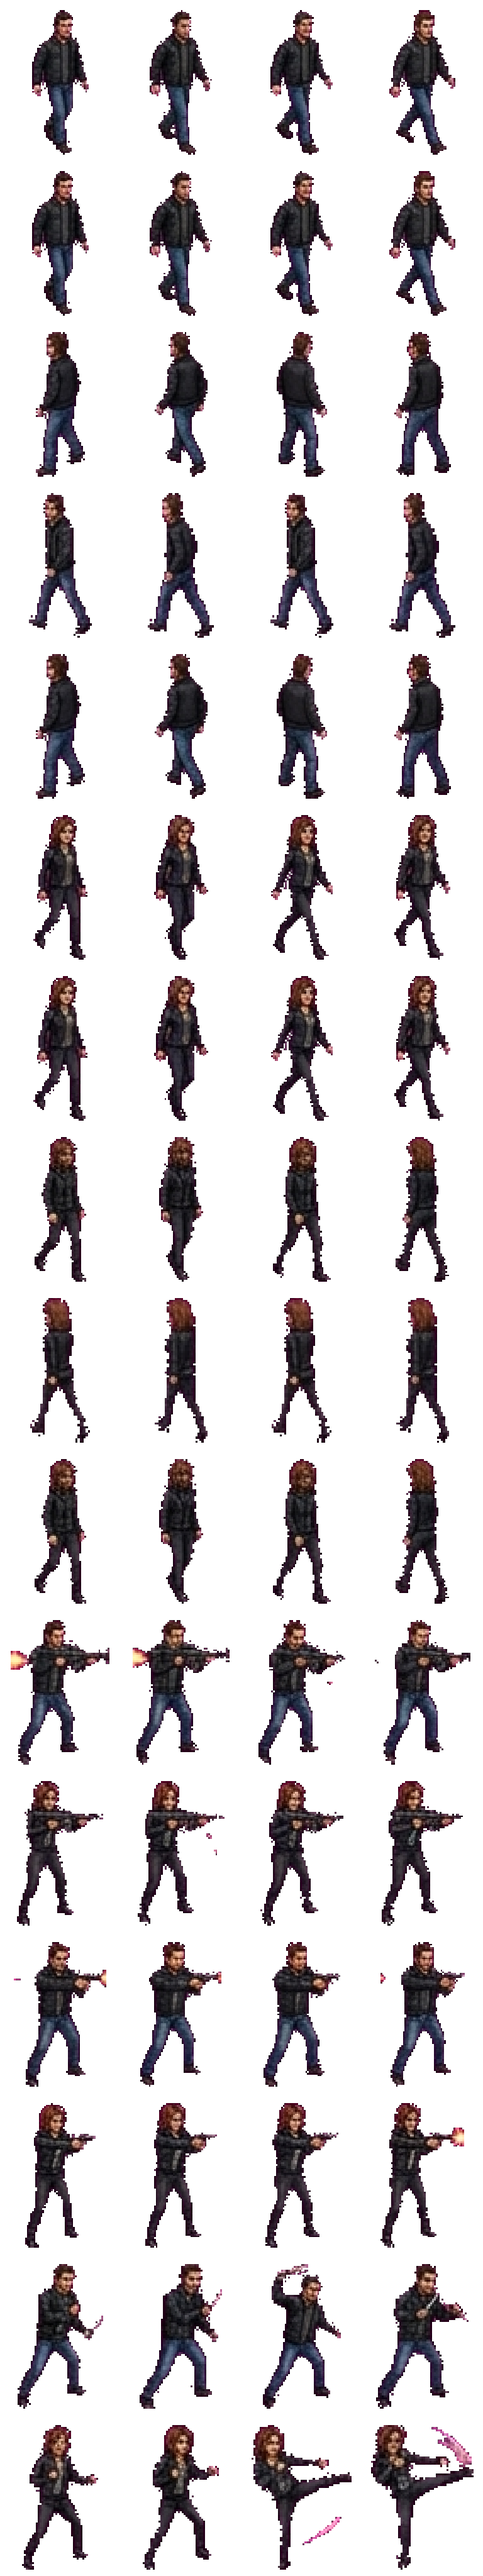
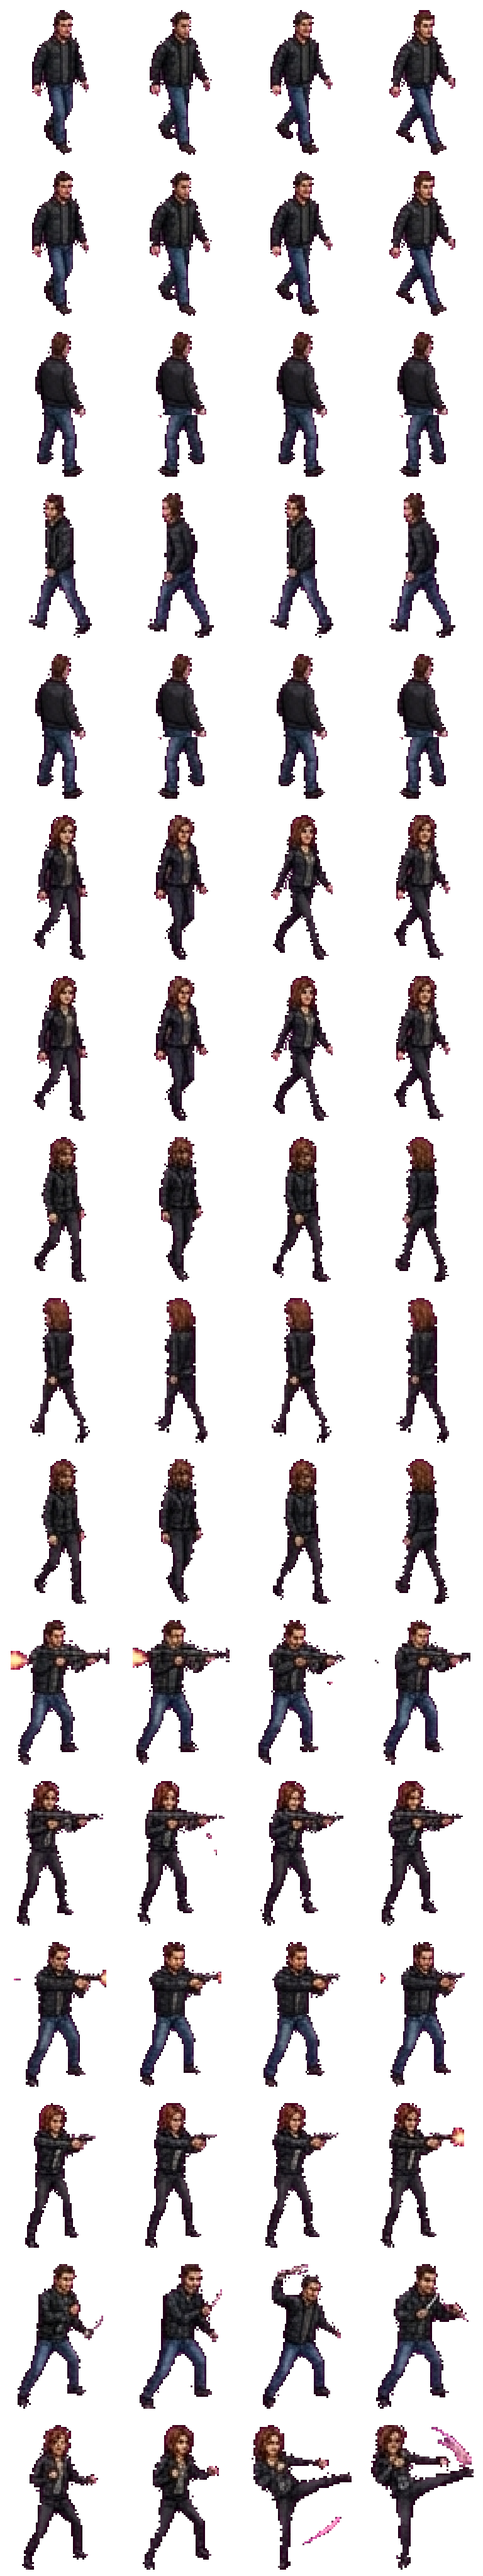
Fix directional walking animation

diff --git a/Assets/RusthollowDemo.cs b/Assets/RusthollowDemo.cs
@@ -20,7 +20,7 @@ public sealed class RusthollowDemo : MonoBehaviour
         public float Health;
         public float AttackTimer;
         public float WakeTimer;
-        public float AnimationTime;
+        public float AnimationDistance;
         public float ActionTime;
         public float ActionDuration;
         public bool IsRaider;
@@ -104,6 +104,8 @@ public sealed class RusthollowDemo : MonoBehaviour
     private const int ContractGoal = 5;
     private const int WalkPoseStart = 1;
     private const int RunPoseStart = 5;
+    private const float WalkFrameDistance = 0.28f;
+    private const float RunFrameDistance = 0.34f;
     private const int ShootPoseStart = 9;
     private const int AttackPose = 11;
     private static readonly Vector2 PlayerSpawnPosition = new Vector2(0f, -1.05f);
@@ -517,8 +519,9 @@ public sealed class RusthollowDemo : MonoBehaviour
         {
             SetFacing(player, movement);
             float speed = player.IsRunning ? 4.1f : 2.7f;
+            Vector2 previousPosition = ActorPosition(player);
             MovePlayer(movement * speed * deltaTime);
-            player.AnimationTime += deltaTime;
+            player.AnimationDistance += Vector2.Distance(previousPosition, ActorPosition(player));
         }
 
         if (mouse != null && mouse.leftButton.isPressed && fireCooldown <= 0f)
@@ -679,7 +682,7 @@ public sealed class RusthollowDemo : MonoBehaviour
                     }
                 }
 
-                raider.AnimationTime += deltaTime;
+                raider.AnimationDistance += Vector2.Distance(position, ActorPosition(raider));
             }
             else
             {
@@ -870,15 +873,15 @@ public sealed class RusthollowDemo : MonoBehaviour
         }
         else if (actor.IsPlayer && player.IsRunning && PlayerIsMoving())
         {
-            pose = RunPoseStart + MovementFrame(actor, 0.11f);
+            pose = RunPoseStart + MovementFrame(actor, RunFrameDistance);
         }
         else if (actor.IsPlayer && PlayerIsMoving())
         {
-            pose = WalkPoseStart + MovementFrame(actor, 0.18f);
+            pose = WalkPoseStart + MovementFrame(actor, WalkFrameDistance);
         }
         else if (actor.IsRaider && raiderIsMoving(actor))
         {
-            pose = WalkPoseStart + MovementFrame(actor, 0.18f);
+            pose = WalkPoseStart + MovementFrame(actor, WalkFrameDistance);
         }
         else
         {
@@ -913,9 +916,9 @@ public sealed class RusthollowDemo : MonoBehaviour
         }
     }
 
-    private static int MovementFrame(Actor actor, float frameDuration)
+    private static int MovementFrame(Actor actor, float frameDistance)
     {
-        int frame = (int)(actor.AnimationTime / frameDuration) % 4;
+        int frame = (int)(actor.AnimationDistance / frameDistance) % 4;
         return actor.Facing.x > 0f ? 3 - frame : frame;
     }
 
@@ -1019,7 +1022,7 @@ public sealed class RusthollowDemo : MonoBehaviour
         player.ActionTime = 0f;
         player.ActionDuration = 0f;
         player.IsMeleeAttacking = false;
-        player.AnimationTime = 0f;
+        player.AnimationDistance = 0f;
         player.IsRunning = false;
         currentWeapon = WeaponType.Rifle;
         foreach (Actor raider in raiders)
